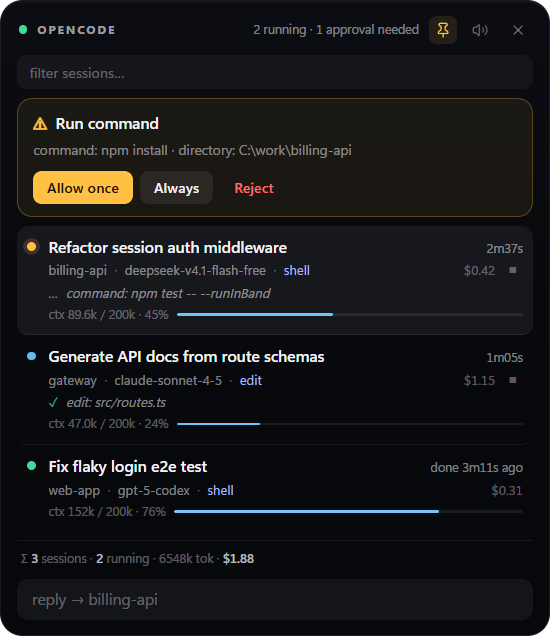
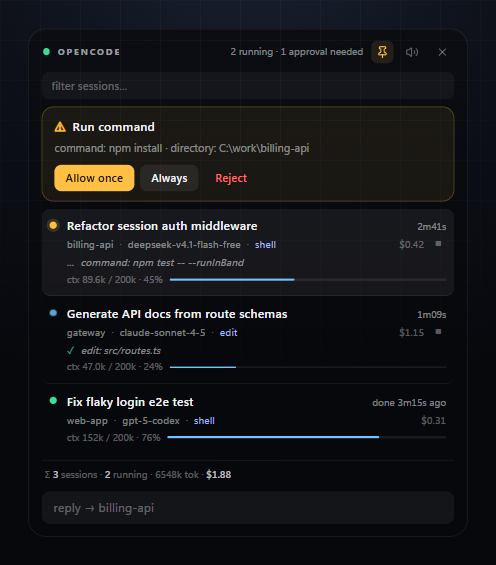
docs: dark-background screenshots, longer demo, Russian README

diff --git a/README.ru.md b/README.ru.md
@@ -1,0 +1,189 @@
+<div align="center">
+
+<img src="docs/icon.png" width="132" alt="OpenCode Notch" />
+
+# OpenCode Notch
+
+**Notch в стиле macOS для Windows — для ваших сессий OpenCode.**
+
+Подтверждения, формы, живая активность агента и расход контекста — всегда на виду, в верхней кромке экрана.
+
+[![Платформа](https://img.shields.io/badge/platform-Windows%2010%20%7C%2011-0078D4?style=flat-square)](#требования)
+[![OpenCode](https://img.shields.io/badge/OpenCode-2.x-111111?style=flat-square)](https://opencode.ai)
+[![Electron](https://img.shields.io/badge/Electron-45-47848F?style=flat-square)](https://www.electronjs.org)
+[![Лицензия](https://img.shields.io/badge/license-MIT-3DA639?style=flat-square)](LICENSE)
+
+[Скачать](#установка) · [Возможности](#возможности) · [Как это работает](#как-это-работает) · [Если что-то не работает](#если-что-то-не-работает)
+
+**Русский** · [English](README.md)
+
+</div>
+
+<p align="center">
+  <img src="docs/demo.gif" width="470" alt="OpenCode Notch — свёрнутая пилюля, раскрытие панели, запрос подтверждения" />
+</p>
+
+---
+
+## Зачем это нужно
+
+Когда OpenCode работает в терминале, вы постоянно переключаетесь на него, чтобы проверить одно и то же: *закончил он или ещё нет? ждёт моего подтверждения? что он вообще сейчас делает?*
+
+OpenCode Notch выносит ответ на верхнюю кромку экрана — в виде маленькой чёрной капсулы. Она не мешает, пока агент не понадобится: тогда капсула раскрывается, показывает запрос и позволяет ответить, не уходя из приложения, в котором вы работаете.
+
+Никаких плагинов, хуков и конфигов в проекте. Notch общается напрямую с локальным фоновым сервисом OpenCode.
+
+## Возможности
+
+- **Настоящий notch** — пилюля у верхней кромки экрана. Её можно перетащить куда угодно; если она прилипла к верху, верхние углы становятся прямыми и она «срастается» с экраном.
+- **Наведение раскрывает, пин держит** — панель открывается при наведении или по `Ctrl+Alt+N`.
+- **Подтверждения разрешений** — `Allow once` / `Always` / `Reject` прямо в notch, с мягким звуковым сигналом, чтобы не пропустить.
+- **Интерактивные формы** — текст, числа, списки, чекбоксы, мультивыбор и условные поля рендерятся настоящими контролами; ответить и отправить можно не трогая терминал.
+- **Строка живой активности** — что агент делает *прямо сейчас*: `… command: npm test`, `✓ edit: src/routes.ts` или фрагмент стримящегося рассуждения.
+- **Расход контекста по сессии** — `ctx 89.6k / 200k · 45%` по последнему сообщению ассистента, плюс накопленные токены и стоимость в подвале.
+- **Быстрый ответ** — печатайте ответ выбранной сессии прямо из notch.
+- **Прервать** — остановить запуск из строки сессии, не переключая окна.
+- **Много сессий** — точки статуса по каждой: работает, ждёт вас, готово, ошибка, повтор.
+- **Фильтр** — начните печатать, чтобы сузить длинный список сессий.
+- **Мультимонитор и память позиции** — помнит, куда вы её перетащили, отдельно для каждого монитора.
+- **Иконка в трее** — показать / скрыть, закрепить, вернуть наверх, выключить звук, автозапуск, выход.
+- **Автозапуск** — необязательный «запуск при входе», стартует скрытой, пока не понадобится.
+
+## Скриншоты
+
+<table>
+<tr>
+<td align="center" width="50%">
+<img src="docs/screenshots/sessions.png" alt="Список сессий" /><br />
+<sub>Три сессии — две работают, одна только что закончила</sub>
+</td>
+<td align="center" width="50%">
+<img src="docs/screenshots/form.png" alt="Интерактивная форма" /><br />
+<sub>Форма от агента, заполненная прямо в notch</sub>
+</td>
+</tr>
+<tr>
+<td colspan="2" align="center">
+<img src="docs/screenshots/pill.png" alt="Свёрнутая пилюля" width="240" /><br />
+<sub>Свёрнуто: только точки статуса и ничего лишнего</sub>
+</td>
+</tr>
+</table>
+
+## Установка
+
+### Вариант А — скачать готовое приложение (самый простой)
+
+1. Откройте [**Releases**](../../releases/latest) и скачайте `OpenCodeNotch-win-x64.zip`.
+2. Распакуйте в любое место (например, `C:\Program Files\OpenCode Notch` или на рабочий стол).
+3. Запустите **`OpenCode Notch.exe`**.
+
+Всё — в верхней части экрана появится чёрная капсула.
+
+> **Windows может ругаться.** Сборка не подписана, поэтому SmartScreen покажет *«Windows защитила ваш компьютер»*. Нажмите **Подробнее → Выполнить в любом случае**. Исходный код лежит в этом же репозитории, и вы можете собрать всё сами командой `npm run dist`.
+
+### Вариант Б — запуск из исходников
+
+Нужен [Node.js 20+](https://nodejs.org).
+
+```powershell
+git clone https://github.com/fraches05/opencode-notch.git
+cd opencode-notch
+npm install
+npm start
+```
+
+Или просто дважды кликните **`start-notch.cmd`** — он сам поставит зависимости при первом запуске и запустит notch.
+
+### Требования
+
+- Windows 10 или 11
+- Установленный [OpenCode](https://opencode.ai) 2.x с доступным фоновым сервисом. Notch находит сервис так же, как это делает TUI — обычно настраивать ничего не нужно.
+- Ни плагинов, ни API-ключей, ни дополнительной конфигурации.
+
+## Как пользоваться
+
+| Действие | Как |
+| --- | --- |
+| Открыть панель | Навести курсор на пилюлю или нажать `Ctrl+Alt+N` |
+| Оставить открытой | Клик по 📌 или `Ctrl+Alt+N` |
+| Закрыть панель | Клик по ✕, `Esc` или увести курсор |
+| Переместить | Перетащить пилюлю или шапку панели |
+| Вернуть на место | Иконка в трее → **Center at top** |
+| Ответить на запрос разрешения | `Allow once` / `Always` / `Reject` |
+| Ответить сессии | Выбрать строку, напечатать в поле снизу, `Enter` |
+| Остановить запуск | Кнопка `■` в строке работающей сессии |
+| Выключить звук | Иконка динамика или трей → **Mute sounds** |
+| Запускать с Windows | Иконка в трее → **Launch at login** |
+
+Настройки хранятся в `%APPDATA%\OpenCode Notch\notch.json` (позиция, закрепление, звук, автозапуск).
+
+## Как это работает
+
+```
+┌──────────────────────────┐        ┌───────────────────────────────┐
+│  Главный процесс Electron│  HTTP  │  Фоновый сервис OpenCode      │
+│  @opencode/client        │ <────> │  найден на 127.0.0.1          │
+│  · поиск сервиса         │        │  · сессии / разрешения        │
+│  · SSE /api/event        │        │  · формы / модели / сообщения │
+│  · свёртка состояния     │        └───────────────────────────────┘
+├──────────────────────────┤
+│  Рендерер (без сети)     │   ← снимки состояния + действия по IPC
+└──────────────────────────┘
+```
+
+- Главный процесс находит запущенный сервис через `Service.discover()` и авторизуется через `Service.headers()` — тем же путём, что и штатные клиенты OpenCode.
+- Он подписывается на поток серверных событий `/api/event` и превращает сырые события (`session.status`, `permission.asked`, `session.tool.called`, `form.created`, `session.usage.updated`, …) в компактный снимок для интерфейса.
+- Рендерер только рисует этот снимок и отправляет действия обратно по IPC (`perm:reply`, `session:prompt`, `session:interrupt`, `form:reply`, …). Сеть ему недоступна.
+- Окно следует за своим содержимым: это безрамочная прозрачная поверхность поверх всех окон, которая меняет размер под пилюлю или панель и перецентровывается при изменении размера.
+
+**Приватность:** всё остаётся на вашей машине. Notch общается только с локальным сервисом OpenCode, не отправляет телеметрию и хранит лишь собственные настройки интерфейса.
+
+## Если что-то не работает
+
+**Пилюля не появляется**
+Запустите OpenCode хотя бы раз, чтобы появился его фоновый сервис. Если notch пишет *reconnecting…*, выполните в терминале `opencode service status`.
+
+**Наведение не раскрывает панель**
+Кликните иконку в трее и выберите **Pin panel open** (`Ctrl+Alt+N`) — заодно убедитесь, что окно там, где вы ожидаете. Если клавиши заняты другой программой, notch пробует по очереди `Ctrl+Shift+N`, затем `Ctrl+Alt+O`, затем `F9`.
+
+**Окно не на том мониторе или за экраном**
+Трей → **Center at top**. Позиция запоминается отдельно для каждого монитора.
+
+**Ничего не происходит при клике на Allow**
+Возможно, разрешение уже обработано в другом клиенте (TUI). Карточка исчезнет, как только сервер сообщит об ответе.
+
+**Число контекста выглядит большим**
+`ctx` — это размер последнего сообщения ассистента (prompt + чтение кэша + вывод), то есть реальная занятость контекста. В подвале — накопленные токены сессии, они включают каждое чтение кэша и растут быстро.
+
+**Где логи?**
+`%TEMP%\opencode-notch.log` — только запуск, подключение и ошибки рендерера.
+
+## Похожие проекты
+
+Жанр notch / Dynamic Island больше, чем этот репозиторий, и это хорошо:
+
+- [lumiomac.app](https://lumiomac.app) — macOS-приложение, с которого всё началось; очень симпатичное, но только для macOS.
+- [opencode](https://opencode.ai) — агент, для которого этот notch и сделан.
+- Если вы на Mac, для агентов есть несколько отличных notch-приложений. Этот проект существует потому, что те не работают на Windows, и потому, что он общается с собственным API OpenCode, а не полагается на хуки или заголовки окон.
+
+## Участие
+
+Issues и pull requests приветствуются. Если OpenCode изменит API, это обычно проявится как `reconnecting…` в шапке — приложите к issue `%TEMP%\opencode-notch.log`.
+
+Не знаете, с чего начать? Хорошие первые задачи:
+
+- Акцентные темы / компактный режим
+- Локализация
+- Упаковка в установщик (NSIS/MSIX) и подпись кода
+- Более информативная телеметрия retry/backoff в тултипе трея
+
+## Дисклеймер
+
+Это независимый неофициальный проект. Он не связан с OpenCode, lumiomac или другими notch-приложениями и не одобрен ими. «OpenCode» используется описательно — чтобы было понятно, с чем работает приложение.
+
+Если оно сэкономило вам пару переключений окон — ⭐ помогает другим его найти.
+
+## Лицензия
+
+[MIT](LICENSE)

diff --git a/README.md b/README.md
@@ -15,6 +15,8 @@ Approvals, forms, live agent activity and context usage, always one glance away 
 
 [Download](#install) · [Features](#features) · [How it works](#how-it-works) · [Troubleshooting](#troubleshooting)
 
+**English** · [Русский](README.ru.md)
+
 </div>
 
 <p align="center">
